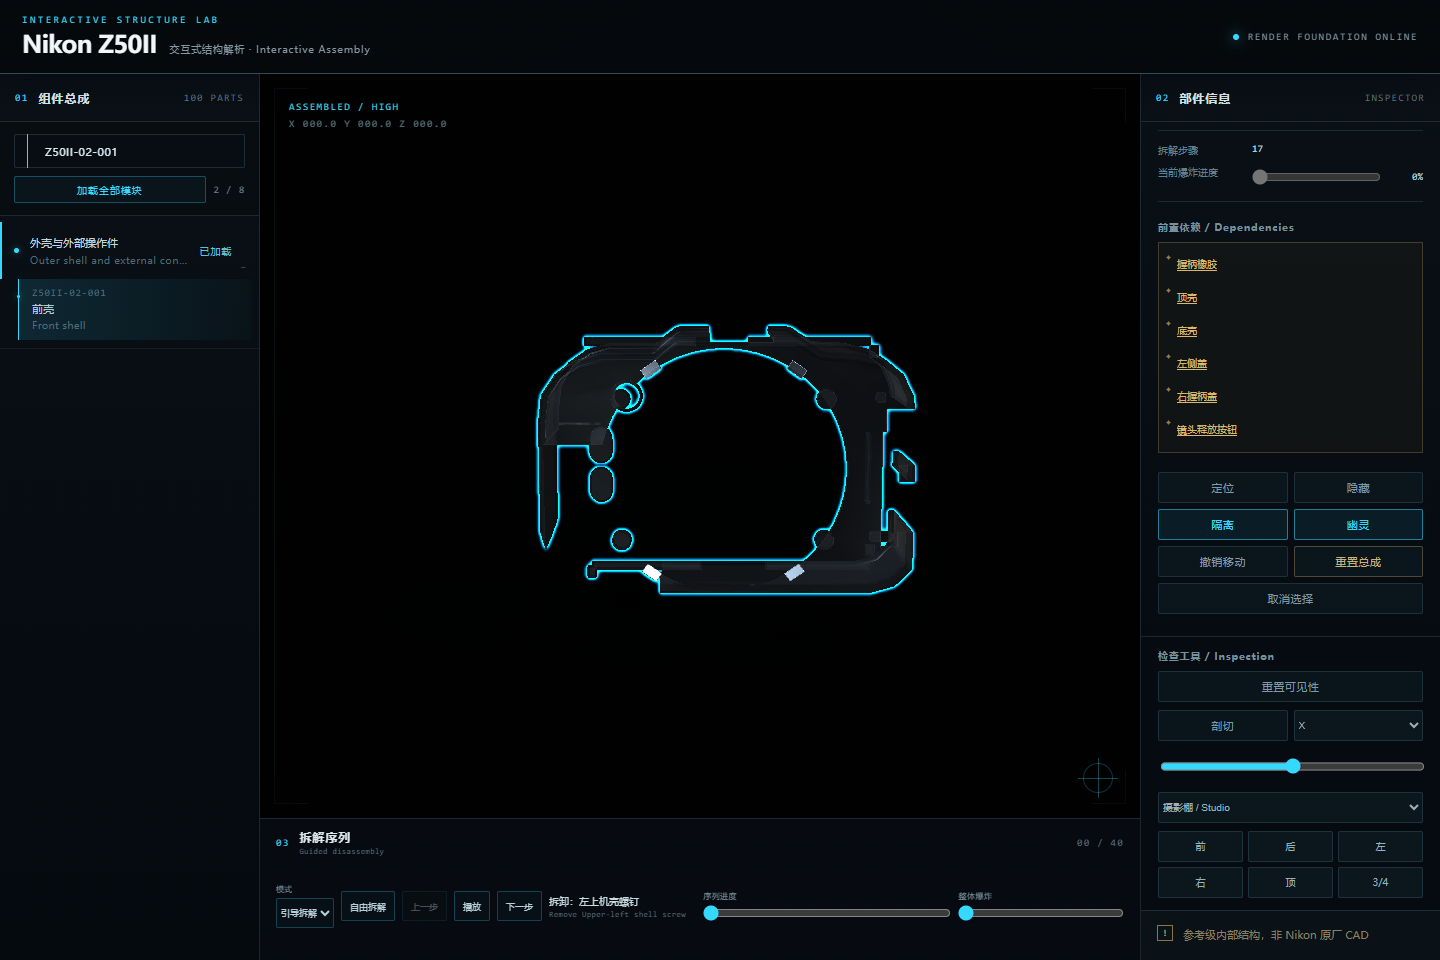
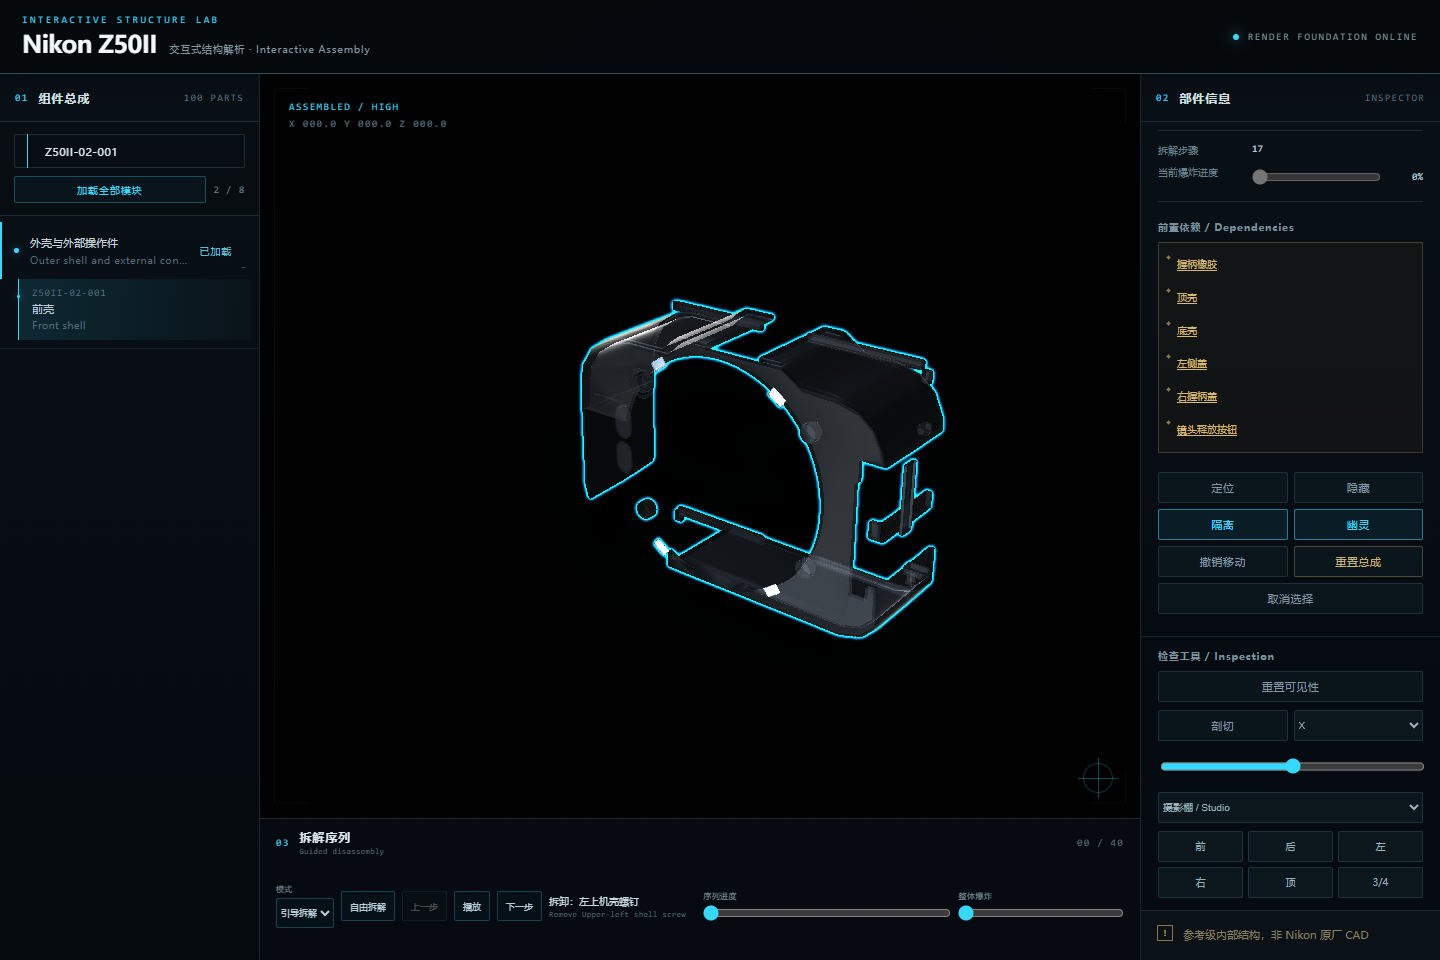
fix: address Task 14 inspection review

Changed region(s): [[0.375, 0.3125, 0.6562, 0.6875]]

diff --git a/tests/unit/lightingController.test.ts b/tests/unit/lightingController.test.ts
@@ -1,13 +1,14 @@
 import {
   AmbientLight,
   BoxGeometry,
+  DirectionalLight,
   Mesh,
   MeshStandardMaterial,
   PlaneGeometry,
   Scene,
   ShadowMaterial,
 } from 'three';
-import { describe, expect, it } from 'vitest';
+import { describe, expect, it, vi } from 'vitest';
 
 import { LightingController } from '../../src/viewer/lightingController';
 import { VisibilityController } from '../../src/viewer/visibilityController';
@@ -18,7 +19,7 @@ describe('LightingController', () => {
     scene.environmentIntensity = 0.42;
     const legacy = new AmbientLight(0xffffff, 0.2);
     scene.add(legacy);
-    const floorMaterial = new ShadowMaterial({ opacity: 0.32 });
+    const floorMaterial = new ShadowMaterial({ opacity: 0.47 });
     const floor = new Mesh(new PlaneGeometry(), floorMaterial);
     floor.name = 'TECHNICAL_SHADOW_FLOOR';
     scene.add(floor);
@@ -40,6 +41,7 @@ describe('LightingController', () => {
     expect(scene.getObjectByName('Z50II_STUDIO_FILL')).not.toBeNull();
     expect(scene.getObjectByName('Z50II_STUDIO_RIM')).not.toBeNull();
     expect(first.material).toBe(shared);
+    expect(floorMaterial.opacity).toBe(0.47);
 
     controller.setPreset('inspection');
 
@@ -55,7 +57,7 @@ describe('LightingController', () => {
     controller.setPreset('studio');
 
     expect(renderer.toneMappingExposure).toBe(1);
-    expect(floorMaterial.opacity).toBe(0.32);
+    expect(floorMaterial.opacity).toBe(0.47);
     expect(first.material).toBe(shared);
     expect(second.material).toBe(shared);
 
@@ -64,5 +66,35 @@ describe('LightingController', () => {
     expect(scene.environmentIntensity).toBe(0.42);
     expect(legacy.visible).toBe(true);
     expect(scene.getObjectByName('Z50II_STUDIO_KEY')).toBeUndefined();
+  });
+
+  it('disposes every owned light and the key shadow render targets exactly once', () => {
+    const scene = new Scene();
+    const visibility = new VisibilityController([]);
+    const controller = new LightingController({ toneMappingExposure: 1 }, scene, visibility);
+    const directionalLights = [
+      'Z50II_STUDIO_KEY',
+      'Z50II_STUDIO_FILL',
+      'Z50II_STUDIO_RIM',
+    ].map((name) => scene.getObjectByName(name) as DirectionalLight);
+    const lightDisposals = directionalLights.map(() => vi.fn());
+    directionalLights.forEach((light, index) => {
+      light.addEventListener('dispose', lightDisposals[index]!);
+    });
+    const shadowMapDispose = vi.fn();
+    const shadowMapPassDispose = vi.fn();
+    directionalLights[0]!.shadow.map = {
+      dispose: shadowMapDispose,
+    } as unknown as NonNullable<typeof directionalLights[0]['shadow']['map']>;
+    directionalLights[0]!.shadow.mapPass = {
+      dispose: shadowMapPassDispose,
+    } as unknown as NonNullable<typeof directionalLights[0]['shadow']['mapPass']>;
+
+    controller.dispose();
+    controller.dispose();
+
+    lightDisposals.forEach((dispose) => expect(dispose).toHaveBeenCalledTimes(1));
+    expect(shadowMapDispose).toHaveBeenCalledTimes(1);
+    expect(shadowMapPassDispose).toHaveBeenCalledTimes(1);
   });
 });

diff --git a/tests/unit/createApp.test.ts b/tests/unit/createApp.test.ts
@@ -16,6 +16,7 @@ import { describe, expect, it, vi } from 'vitest';
 import fixture from '../fixtures/assembly-manifest.valid.json';
 import {
   createApp,
+  resetVisibilityAndRestoreSelection,
   type AppDependencies,
 } from '../../src/app/createApp';
 import { parseManifest } from '../../src/domain/manifest';
@@ -23,6 +24,8 @@ import type { AppShell } from '../../src/ui/appShell';
 import type { TimelineCallbacks, TimelineController } from '../../src/ui/timeline';
 import type { Viewer } from '../../src/viewer/createRenderer';
 import { ModuleLoader } from '../../src/viewer/moduleLoader';
+import { SelectionController } from '../../src/viewer/selectionController';
+import { VisibilityController } from '../../src/viewer/visibilityController';
 
 function fakeShell(): AppShell {
   return {
@@ -94,6 +97,37 @@ function trackedScene(): {
 }
 
 describe('createApp lifecycle', () => {
+  it('recomputes the unchanged selected outline after visibility reset', () => {
+    const partId = 'Z50II-01-001';
+    const assemblyRoot = new Group();
+    const part = new Group();
+    part.userData.partId = partId;
+    part.add(new Mesh(new BufferGeometry(), new MeshStandardMaterial()));
+    assemblyRoot.add(part);
+    const outlinePass = { selectedObjects: [] as Object3D[] };
+    const visibility = new VisibilityController([part]);
+    const selection = new SelectionController({
+      canvas: canvasStub(),
+      camera: new PerspectiveCamera(),
+      assemblyRoot,
+      outlinePass,
+      partIndex: new Map([[partId, part]]),
+    });
+
+    selection.select(partId);
+    expect(outlinePass.selectedObjects).toEqual([part]);
+    visibility.hide(part);
+    selection.select(partId);
+    expect(selection.selectedPartId).toBe(partId);
+    expect(outlinePass.selectedObjects).toEqual([]);
+
+    expect(resetVisibilityAndRestoreSelection(visibility, selection)).toBe(partId);
+    expect(outlinePass.selectedObjects).toEqual([part]);
+
+    selection.dispose();
+    visibility.dispose();
+  });
+
   it('does not attach a late preload root after app disposal and releases it once', async () => {
     const manifest = parseManifest({
       ...fixture,

diff --git a/tests/unit/cutawayController.test.ts b/tests/unit/cutawayController.test.ts
@@ -1,4 +1,4 @@
-import { BoxGeometry, Mesh, MeshStandardMaterial, Scene, Vector3 } from 'three';
+import { BoxGeometry, Mesh, MeshStandardMaterial, Plane, Scene, Vector3 } from 'three';
 import { describe, expect, it, vi } from 'vitest';
 
 import { CutawayController } from '../../src/viewer/cutawayController';
@@ -49,5 +49,44 @@ describe('CutawayController', () => {
 
     controller.dispose();
     expect(scene.children).not.toContain(controller.helper);
+  });
+
+  it('composes with ghost and inspection while preserving pre-existing clipping planes', () => {
+    const originalPlane = new Plane(new Vector3(0, 0, 1), -0.012);
+    const originalClipping = [originalPlane];
+    const original = new MeshStandardMaterial();
+    original.clippingPlanes = originalClipping;
+    const mesh = new Mesh(new BoxGeometry(), original);
+    const visibility = new VisibilityController([mesh]);
+    const controller = new CutawayController(
+      { localClippingEnabled: false },
+      new Scene(),
+      visibility,
+    );
+
+    visibility.ghost(mesh);
+    visibility.setInspectionMode(true);
+    expect((mesh.material as MeshStandardMaterial).clippingPlanes).toEqual(originalClipping);
+
+    controller.setEnabled(true);
+    expect((mesh.material as MeshStandardMaterial).clippingPlanes).toEqual([
+      originalPlane,
+      controller.plane,
+    ]);
+    expect(original.clippingPlanes).toBe(originalClipping);
+
+    controller.setEnabled(false);
+    expect(mesh.material).not.toBe(original);
+    expect((mesh.material as MeshStandardMaterial).clippingPlanes).toEqual(originalClipping);
+
+    visibility.unghost(mesh);
+    expect(mesh.material).not.toBe(original);
+    expect((mesh.material as MeshStandardMaterial).clippingPlanes).toEqual(originalClipping);
+    visibility.setInspectionMode(false);
+    expect(mesh.material).toBe(original);
+    expect(original.clippingPlanes).toBe(originalClipping);
+
+    controller.dispose();
+    visibility.dispose();
   });
 });

diff --git a/tests/unit/cameraPresetTween.test.ts b/tests/unit/cameraPresetTween.test.ts
@@ -82,4 +82,46 @@ describe('camera preset tween', () => {
     expect(controls.target.y).toBeCloseTo(0.02, 12);
     expect(controls.target.z).toBeCloseTo(-0.03, 12);
   });
+
+  it.each([0.4, 1, 2.4])(
+    'keeps every visible bound corner inside NDC for aspect %s',
+    (aspect) => {
+      const camera = new PerspectiveCamera(40, aspect, 0.01, 10);
+      const controls = new FakeControls();
+      const visible = new Mesh(new BoxGeometry(0.2, 0.1, 0.08));
+      visible.position.set(0.04, 0.02, -0.03);
+      visible.updateMatrixWorld(true);
+      const tween = new CameraPresetTween(camera, controls, {
+        reducedMotion: true,
+        getVisibleObjects: () => [visible],
+      });
+      const expectedDirections = {
+        front: new Vector3(0, 0.04, 0.25).normalize(),
+        rear: new Vector3(0, 0.04, -0.25).normalize(),
+        left: new Vector3(-0.25, 0.04, 0).normalize(),
+        right: new Vector3(0.25, 0.04, 0).normalize(),
+        top: new Vector3(0, 0.25, 0.02).normalize(),
+        'three-quarter': new Vector3(0.165, 0.115, 0.205).normalize(),
+      };
+
+      for (const [preset, expectedDirection] of Object.entries(expectedDirections)) {
+        tween.start(preset);
+        camera.updateProjectionMatrix();
+        camera.updateMatrixWorld(true);
+        const actualDirection = camera.position.clone().sub(controls.target).normalize();
+        expect(actualDirection.dot(expectedDirection)).toBeGreaterThan(0.999999);
+        for (const x of [-0.1, 0.1]) {
+          for (const y of [-0.05, 0.05]) {
+            for (const z of [-0.04, 0.04]) {
+              const ndc = new Vector3(0.04 + x, 0.02 + y, -0.03 + z).project(camera);
+              expect(Math.abs(ndc.x)).toBeLessThanOrEqual(1);
+              expect(Math.abs(ndc.y)).toBeLessThanOrEqual(1);
+              expect(ndc.z).toBeGreaterThanOrEqual(-1);
+              expect(ndc.z).toBeLessThanOrEqual(1);
+            }
+          }
+        }
+      }
+    },
+  );
 });

diff --git a/tests/e2e/task14-inspection-tools.spec.ts b/tests/e2e/task14-inspection-tools.spec.ts
@@ -20,12 +20,17 @@ test('inspection tools compose reversibly and expose six fitted camera presets',
   await expect(page.locator('.load-progress')).toHaveText('2 / 8', { timeout: 30_000 });
   await selectPart(page, 'Z50II-02-001');
 
+  const root = page.locator('.app-shell');
   for (const preset of ['front', 'rear', 'left', 'right', 'top', 'three-quarter']) {
-    await expect(page.getByTestId(`camera-preset-${preset}`)).toBeVisible();
+    const button = page.getByTestId(`camera-preset-${preset}`);
+    await expect(button).toBeVisible();
+    await button.click();
+    await expect(root).toHaveAttribute('data-camera-tween-active', 'true');
+    await expect(root).toHaveAttribute('data-camera-tween-active', 'false');
+    if (preset === 'front') {
+      await page.screenshot({ path: `${evidenceDir}/task-14-camera-front.png` });
+    }
   }
-  await page.getByTestId('camera-preset-front').click();
-  await page.waitForTimeout(650);
-  await page.screenshot({ path: `${evidenceDir}/task-14-camera-front.png` });
 
   await page.getByTestId('ghost-selected').click();
   await expect(page.getByTestId('ghost-selected')).toHaveAttribute('aria-pressed', 'true');
@@ -37,7 +42,8 @@ test('inspection tools compose reversibly and expose six fitted camera presets',
   await expect(page.getByTestId('isolate-selected')).toHaveAttribute('aria-pressed', 'false');
 
   await page.getByTestId('camera-preset-three-quarter').click();
-  await page.waitForTimeout(650);
+  await expect(root).toHaveAttribute('data-camera-tween-active', 'true');
+  await expect(root).toHaveAttribute('data-camera-tween-active', 'false');
   await page.getByTestId('cutaway-axis').selectOption('x');
   await page.getByTestId('cutaway-offset').evaluate((input) => {
     (input as HTMLInputElement).value = '0';

diff --git a/src/app/createApp.ts b/src/app/createApp.ts
@@ -74,6 +74,16 @@ const PRELOAD_MODULE_IDS = new Set([
   '02_outer_shell_controls',
 ]);
 
+export function resetVisibilityAndRestoreSelection(
+  visibility: Pick<VisibilityController, 'resetVisibility'>,
+  selection: Pick<SelectionController, 'selectedPartId' | 'select'> | null,
+): string | null {
+  visibility.resetVisibility();
+  const selectedPartId = selection?.selectedPartId ?? null;
+  selection?.select(selectedPartId);
+  return selectedPartId;
+}
+
 async function loadPublicManifest(): Promise<AssemblyManifest> {
   const baseUrl = new URL(import.meta.env.BASE_URL, document.baseURI);
   const manifestUrl = new URL('assembly-manifest.json', baseUrl);
@@ -435,8 +445,10 @@ export async function createApp(
         updateSelectionUi(partId);
       },
       onVisibilityReset: () => {
-        visibilityController?.resetVisibility();
-        updateSelectionUi(selectionController?.selectedPartId ?? null);
+        const selectedPartId = visibilityController
+          ? resetVisibilityAndRestoreSelection(visibilityController, selectionController)
+          : (selectionController?.selectedPartId ?? null);
+        updateSelectionUi(selectedPartId);
       },
       onCutawayToggle: (enabled) => { cutawayController?.setEnabled(enabled); },
       onCutawayAxis: (axis) => { cutawayController?.setAxis(axis); },

diff --git a/src/viewer/lightingController.ts b/src/viewer/lightingController.ts
@@ -2,6 +2,7 @@ import {
   AmbientLight,
   DirectionalLight,
   Group,
+  Light,
   Mesh,
   Object3D,
   Scene,
@@ -101,6 +102,9 @@ export class LightingController {
     this.shadowMaterials.forEach(({ material, opacity }) => { material.opacity = opacity; });
     this.replacedLights.forEach(({ object, visible }) => { object.visible = visible; });
     this.scene.remove(this.rig);
+    this.rig.traverse((object) => {
+      if (object instanceof Light) object.dispose();
+    });
     this.disposed = true;
   }
 
@@ -112,8 +116,8 @@ export class LightingController {
     this.key.intensity = inspection ? 0.55 : 0.75;
     this.fill.intensity = inspection ? 0.45 : 0.3;
     this.rim.intensity = inspection ? 0.3 : 0.5;
-    this.shadowMaterials.forEach(({ material }) => {
-      material.opacity = inspection ? 0.16 : 0.32;
+    this.shadowMaterials.forEach(({ material, opacity }) => {
+      material.opacity = inspection ? Math.min(opacity, 0.16) : opacity;
     });
     this.visibility.setInspectionMode(inspection);
   }

diff --git a/src/viewer/visibilityController.ts b/src/viewer/visibilityController.ts
@@ -40,17 +40,22 @@ function cloneAssignment(
 ): MaterialAssignment {
   const clone = (original: Material): Material => {
     const owned = original.clone();
+    const originalClippingPlanes = original.clippingPlanes;
     if (ghosted) {
       owned.opacity = 0.18;
       owned.transparent = true;
       owned.depthWrite = false;
     }
     if (clippingPlane) {
-      owned.clippingPlanes = [clippingPlane];
+      owned.clippingPlanes = originalClippingPlanes
+        ? [...originalClippingPlanes, clippingPlane]
+        : [clippingPlane];
       owned.clipIntersection = false;
       owned.clipShadows = true;
     } else {
-      owned.clippingPlanes = null;
+      owned.clippingPlanes = originalClippingPlanes
+        ? [...originalClippingPlanes]
+        : null;
     }
     if (inspection && owned instanceof MeshStandardMaterial) {
       owned.envMapIntensity = Math.min(owned.envMapIntensity, 0.28);

diff --git a/.superpowers/sdd/2026-08-25-nikon-z50ii-interactive-exploded-model/task-14-report.md b/.superpowers/sdd/2026-08-25-nikon-z50ii-interactive-exploded-model/task-14-report.md
@@ -43,3 +43,30 @@ All four 1440 × 960 screenshots were inspected at original resolution. Full E2E
 - `git diff --cached --check` — clean before the implementation commit.
 
 The bundled Node directory was prepended to `PATH` for pnpm child scripts in this shell. Vite continues to emit the pre-existing advisory that the main Three.js chunk exceeds 500 kB; it does not fail the build. The in-app live-browser runtime was blocked by a Windows sandbox ACL setup error, so interactive correctness used the project's real-Chrome E2E runner and visual QA used the generated original-resolution screenshots.
+
+## Independent review Round 1
+
+The Round 1 package identified four state/lifecycle defects and two camera-test gaps. Each defect was verified against the current implementation before changes.
+
+### RED evidence
+
+- Added a real `SelectionController` + `VisibilityController` regression for hide → unchanged select → visibility reset. The selected part ID remained stable while the outline array stayed empty; the desired reset helper was absent (`resetVisibilityAndRestoreSelection is not a function`).
+- Added combined ghost + inspection + cutaway coverage with a source material already carrying one clipping plane. The first owned ghost clone returned `clippingPlanes: null` instead of preserving the source plane.
+- Changed the lighting fixture's floor shadow opacity from the default-like `0.32` to `0.47`. Studio construction returned `0.32`, proving that preset code overwrote the captured source value.
+- Attached disposal listeners to all three owned directional lights and installed controlled key-shadow `map`/`mapPass` targets. Double controller disposal produced zero light and render-target disposal calls.
+- The combined RED run was 3 files with 4 failed / 5 passed tests, with each failure matching one review finding.
+
+### Fixes and focused GREEN evidence
+
+- Visibility reset now restores visibility, explicitly reselects the unchanged selected part so `SelectionController.select()` recomputes effective visibility and the outline, and only then refreshes inspector/action state. `createApp.test.ts`: 5/5 passed.
+- Material recomposition now copies every pre-existing clipping plane into owned ghost/inspection clones and appends the Task 14 plane without mutating the source array. Disabling cutaway while ghost/inspection remains active recomposes the clone with only the original planes; removing all effects restores the exact original material and clipping-array reference. Visibility/display/cutaway: 3 files / 9 tests passed.
+- Studio uses each captured `ShadowMaterial.opacity`; inspection applies `min(originalOpacity, 0.16)`, so it never makes an already softer source shadow darker. Lighting teardown traverses the owned rig and calls `dispose()` on every light; Three.js `DirectionalLight.dispose()` releases its shadow `map` and `mapPass`. Lighting: 2/2 passed, including idempotent double disposal.
+- Camera tests project all eight visible box corners through front, rear, left, right, top, and three-quarter cameras at aspect ratios `0.4`, `1`, and `2.4`; every corner remains inside NDC and every camera direction matches its preset. Camera: 7/7 passed.
+- Complete focused review set: 7 files / 32 tests passed.
+
+### Rebuilt browser and final evidence
+
+- Task 14 E2E now clicks every one of the six camera buttons and observes the real application root transition `data-camera-tween-active=true → false` for each preset. The focused rebuilt Chrome run passed 1/1.
+- `scripts/pnpm.ps1 check`: 18 files / 107 tests passed; TypeScript and the production Vite build passed.
+- Rebuilt `scripts/pnpm.ps1 test:e2e`: 4/4 Chrome suites passed. The runner-regenerated Task 11–13 screenshots were restored exactly afterward.
+- The four updated Task 14 screenshots were inspected again at 1440 × 960. Front fit remains centered, ghost/isolate retains the cyan selected outline, the cutaway helper remains bounded and translucent, and inspection lighting remains independently readable.
